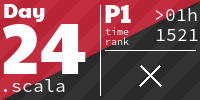
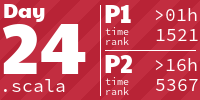
Day 24 2023 (part 2)

diff --git a/README.md b/README.md
@@ -3,7 +3,7 @@ Scala solutions for [Advent of Code](http://adventofcode.com/). My rust solution
 
 <!-- AOC TILES BEGIN -->
 <h1 align="center">
-  2023 - 47 ⭐
+  2023 - 48 ⭐
 </h1>
 <a href="src/main/scala/adventofcode/y2023/Day1.scala">
   <img src="AoCTiles/media/2023/01.png" width="161px">
